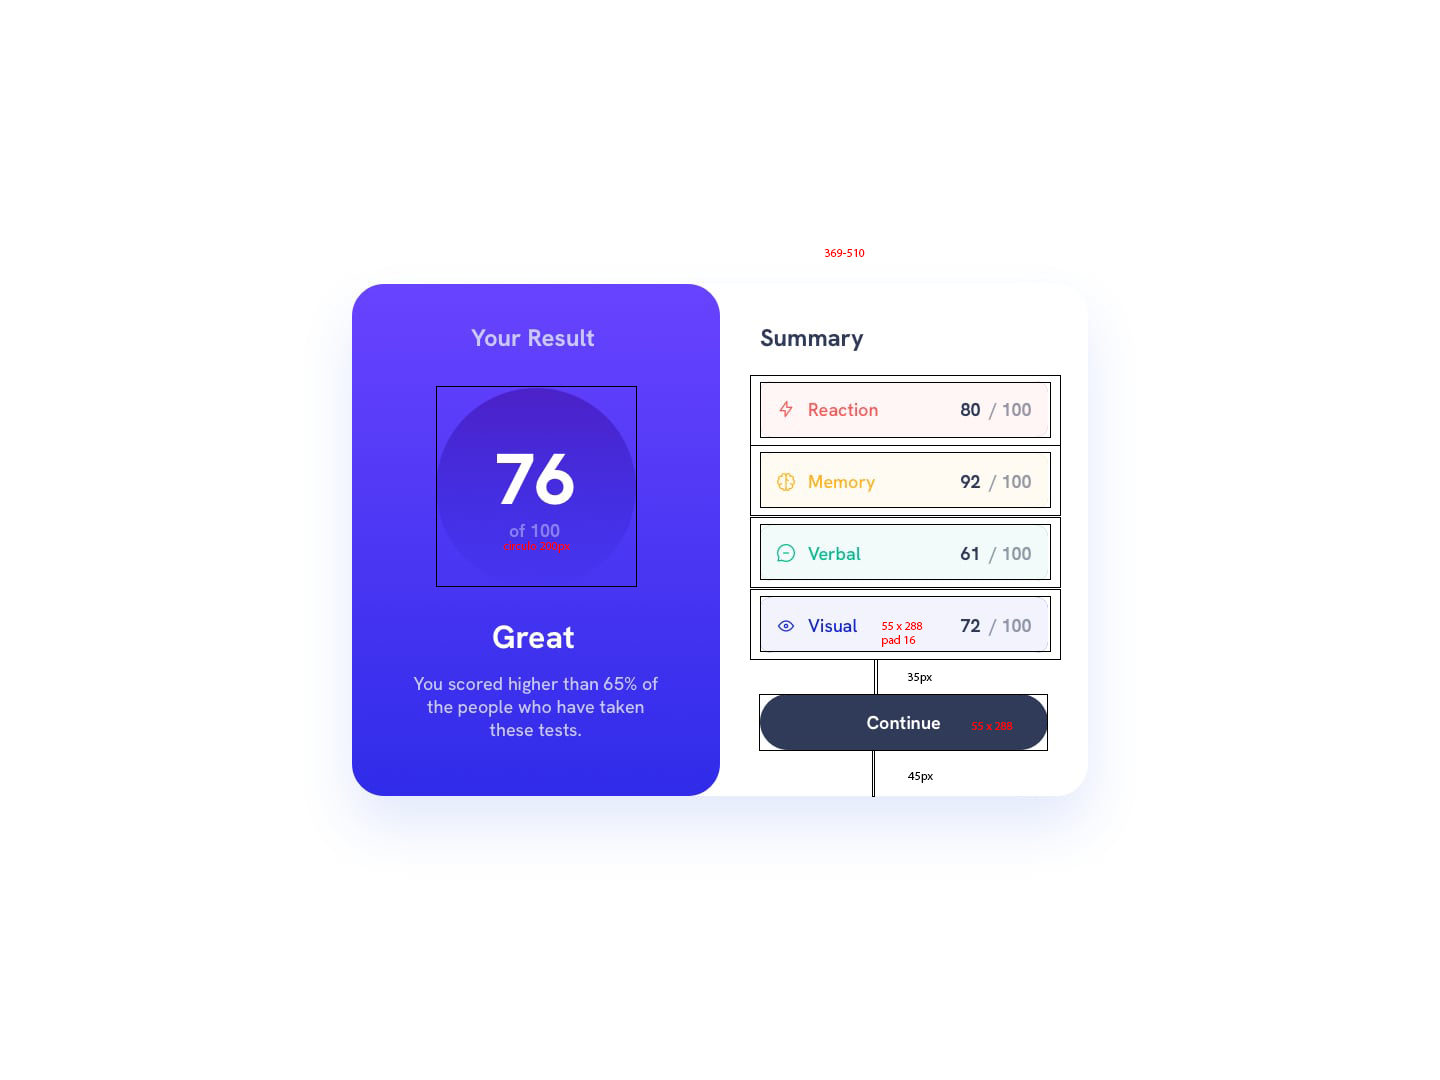
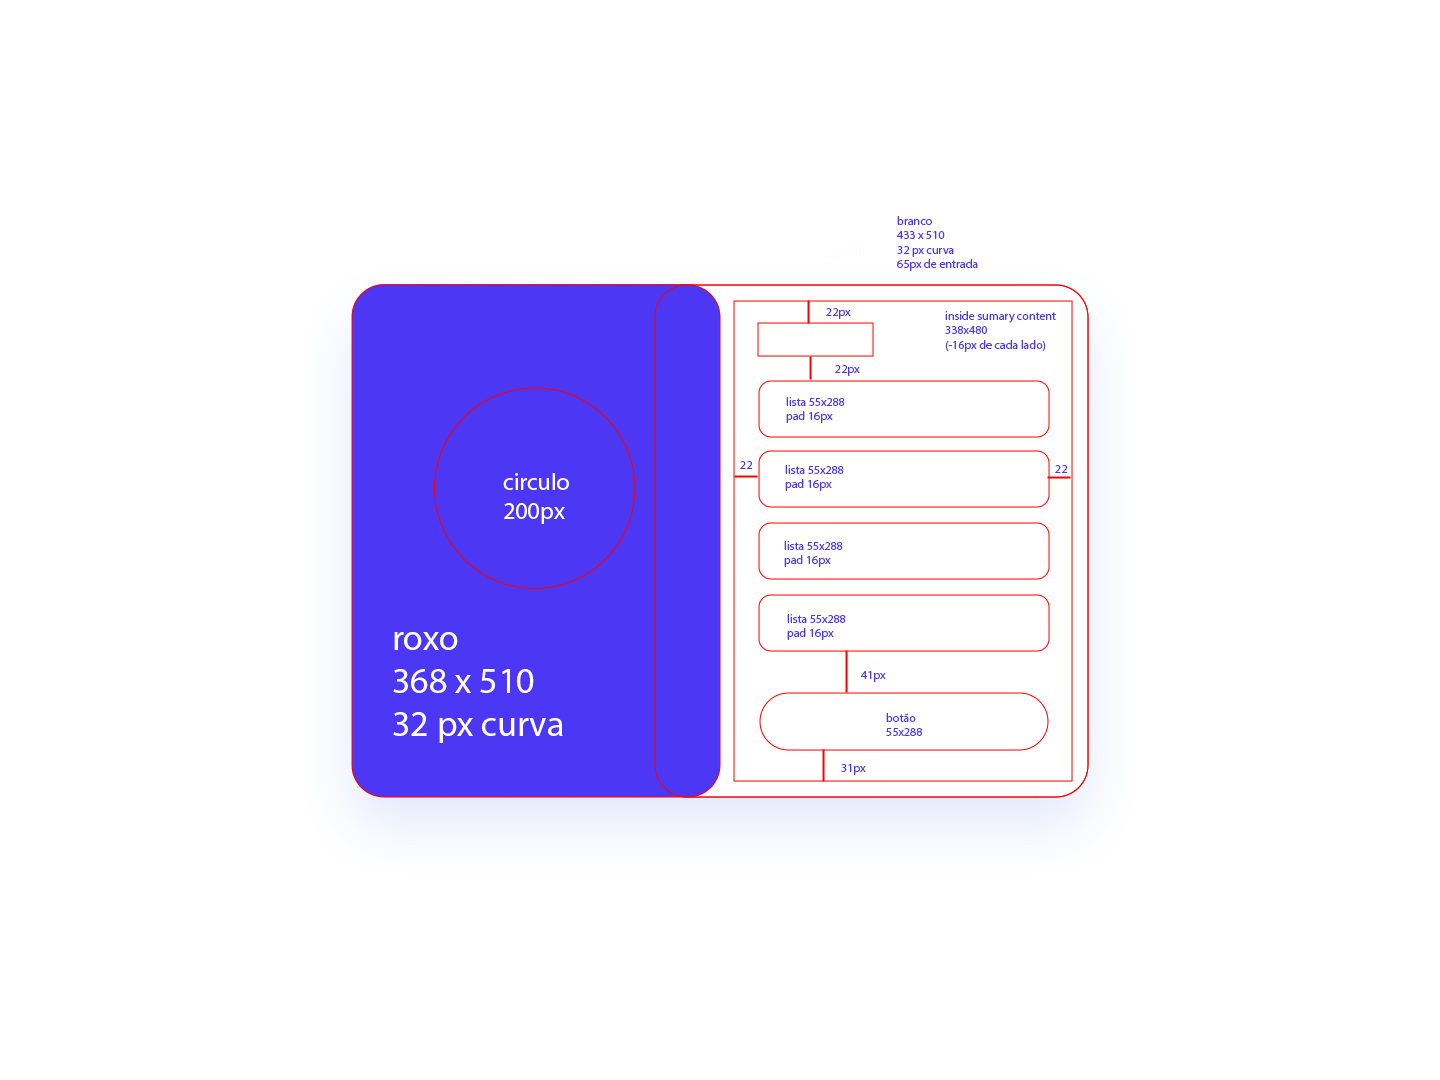
Responsibilidade para telas menores

Changed region(s): [[0.25, 0.2139, 0.75, 0.7333], [0.25, 0.5806, 0.5, 0.7639]]

diff --git a/src/css/style.css b/src/css/style.css
@@ -6,6 +6,7 @@ body{
     background-color: hsl(221, 100%, 96%);
     display: flex;
     justify-content: center;
+    align-items: center;
 }
 
 li { 
@@ -15,32 +16,41 @@ li {
     width: 18rem;
     height: 3.4375em;
     font-weight: 700;
+    list-style: circle inside;
 }
+
+.values-status-valor {     
+    color: hsla(224, 30%, 27%, 0.3);} 
+.values-status { 
+    color: hsl(224, 30%, 27%);
+    float: right;
+} 
+
 
 li:nth-child(1) {    
     background-color: hsla(0, 100%, 67%, 0.05);
-    list-style:inside;
     list-style-image: url(/src/images/icon-reaction.svg);
     color: hsla(0, 100%, 67%, 0.75);
 }
 
 li:nth-child(2){
     background-color: hsla(39, 100%, 56%, 0.05);
-    list-style: square inside  url(/src/images/icon-memory.svg);
+    list-style-image: url(/src/images/icon-memory.svg);
     color: hsla(39, 100%, 56%, 0.75);
 }
 
 li:nth-child(3){
     background-color:hsla(166, 100%, 37%, 0.05);
-    list-style: square inside  url(/src/images/icon-verbal.svg);
+    list-style-image: url(/src/images/icon-verbal.svg);
     color: hsla(166, 100%, 37%, 0.75);
 }
 
 li:nth-child(4){    
     background-color: hsla(234, 85%, 45%, 0.05);
-    list-style: square inside  url(/src/images/icon-visual.svg);
+    list-style-image: url(/src/images/icon-visual.svg);
     color: hsla(234, 85%, 45%, 0.75);
 }
+
 
 h1 {
     color: hsl(0, 0%, 100%);
@@ -55,20 +65,21 @@ p {
     flex-direction: row;
     align-items: center;
     justify-content: center;
+    width: 46rem;    
+    height: 31.875rem;
+    background-color: hsl(0, 0%, 100%);
+    border-radius: 2rem;
 }
 
 .summary {
     display: flex;
     flex-direction: column;
     justify-content: center;
-    align-items: center; 
-    background-color: hsl(0, 0%, 100%);
+    align-items: center;
     height: 31.875rem;
-    width: 28rem;    
+    width: 23rem;    
     border-radius: 2rem;
-    border: none;
-    transform: translate(-5rem);
-    padding-left: 5rem;    
+    border: none;   
 } 
 
 .title-summary{
@@ -86,7 +97,6 @@ p {
     width: 23rem;
     border-radius: 2rem;
     border: none;
-    z-index: 1;
     color: hsl(241, 100%, 89%)
 } 
 
@@ -138,11 +148,4 @@ footer{
 .attribution { font-size: 0.6875rem; text-align: center; }
 .attribution a { color: hsl(228, 45%, 44%);}
 
-.values-status-valor {
-    color: hsla(224, 30%, 27%, 0.3);
-} 
-.values-status {
-    color: hsl(224, 30%, 27%);
-    float: right;
-} 
 

diff --git a/src/css/responsive.css b/src/css/responsive.css
@@ -1,0 +1,66 @@
+@media (max-width: 800px) {
+    
+    .content {    
+        flex-direction: column;
+        width: 23.4375rem;    
+        height: 50.75rem;
+        background-color: hsl(0, 0%, 100%);
+        border-radius: 2rem;
+    }
+
+    .result {    
+        display: flex;
+        flex-direction: column;
+        justify-content: center;
+        align-items: center;
+        background: linear-gradient(180deg, hsl(252, 100%, 67%) 0%, hsl(241, 81%, 54%) 100%);
+        height: 22.1875rem;
+        min-width: 100%;
+        /* width: 23.4375rem; */
+        border-radius: 2rem;
+        border: none;
+        color: hsl(241, 100%, 89%)
+    } 
+    
+    
+    .summary {
+        display: flex;
+        flex-direction: column;
+        justify-content: center;
+        align-items: center;
+        min-width: 100%;
+        /* width: 23.4375rem; */
+        border-radius: 2rem;
+        border: none;   
+    } 
+    
+    footer {
+        display: none;
+    }
+
+    .circle {
+        display: flex;
+        background-color: hsla(241, 81%, 54%, 0.3);
+        margin: 0;
+        width: 9rem;  
+        height: 9rem;
+    }
+    
+    .circle-title {
+        font-size: 3.5em;
+        color: hsl(0, 0%, 100%);
+    }
+    p {
+        font-size: 1rem;
+    }
+}
+
+@media (max-width: 375px) {
+    .content { 
+        border-radius: 0;   
+    }
+    .result {    
+        border-radius: 0 0 2rem 2rem;
+      } 
+
+}

diff --git a/index.html b/index.html
@@ -4,9 +4,10 @@
   <meta charset="UTF-8">
   <meta name="viewport" content="width=device-width, initial-scale=1.0">
 
-  <link rel="icon" type="image/png" sizes="32x32" href="./assets/images/favicon-32x32.png">
+  <link rel="icon" type="image/png" sizes="32x32" href="./src/images/favicon-32x32.png">
   <link rel="stylesheet" href="./src/css/reset.css">
   <link rel="stylesheet" href="./src/css/style.css">
+  <link rel="stylesheet" href="./src/css/responsive.css">
 
   <title>Frontend Mentor | Results summary component</title>
 </head>
@@ -72,7 +73,7 @@
   <footer>
     <div class="attribution">
       Challenge by <a href="https://www.frontendmentor.io?ref=challenge" target="_blank">Frontend Mentor</a>. 
-      Coded by <a href="#">Ilnara Ackermann</a>.
+      Coded by <a href="https://github.com/IlnaraAckermann">Ilnara Ackermann</a>.
     </div>
   </footer>
   

diff --git a/README-template.md b/README-template.md
@@ -30,7 +30,7 @@ Users should be able to:
 ### Links
 
 - Solution URL: [Add solution URL here](https://github.com/IlnaraAckermann/results-summary-component-main)
-- Live Site URL: [Add live site URL here](https://ilnaraackermann.github.io/results-summary-component-main/)
+- Live Site URL: [Add live site URL here](https://results-summary-component-main-kx7kdn7i0-ilnaraackermann.vercel.app/)
 
 ## My process
 
